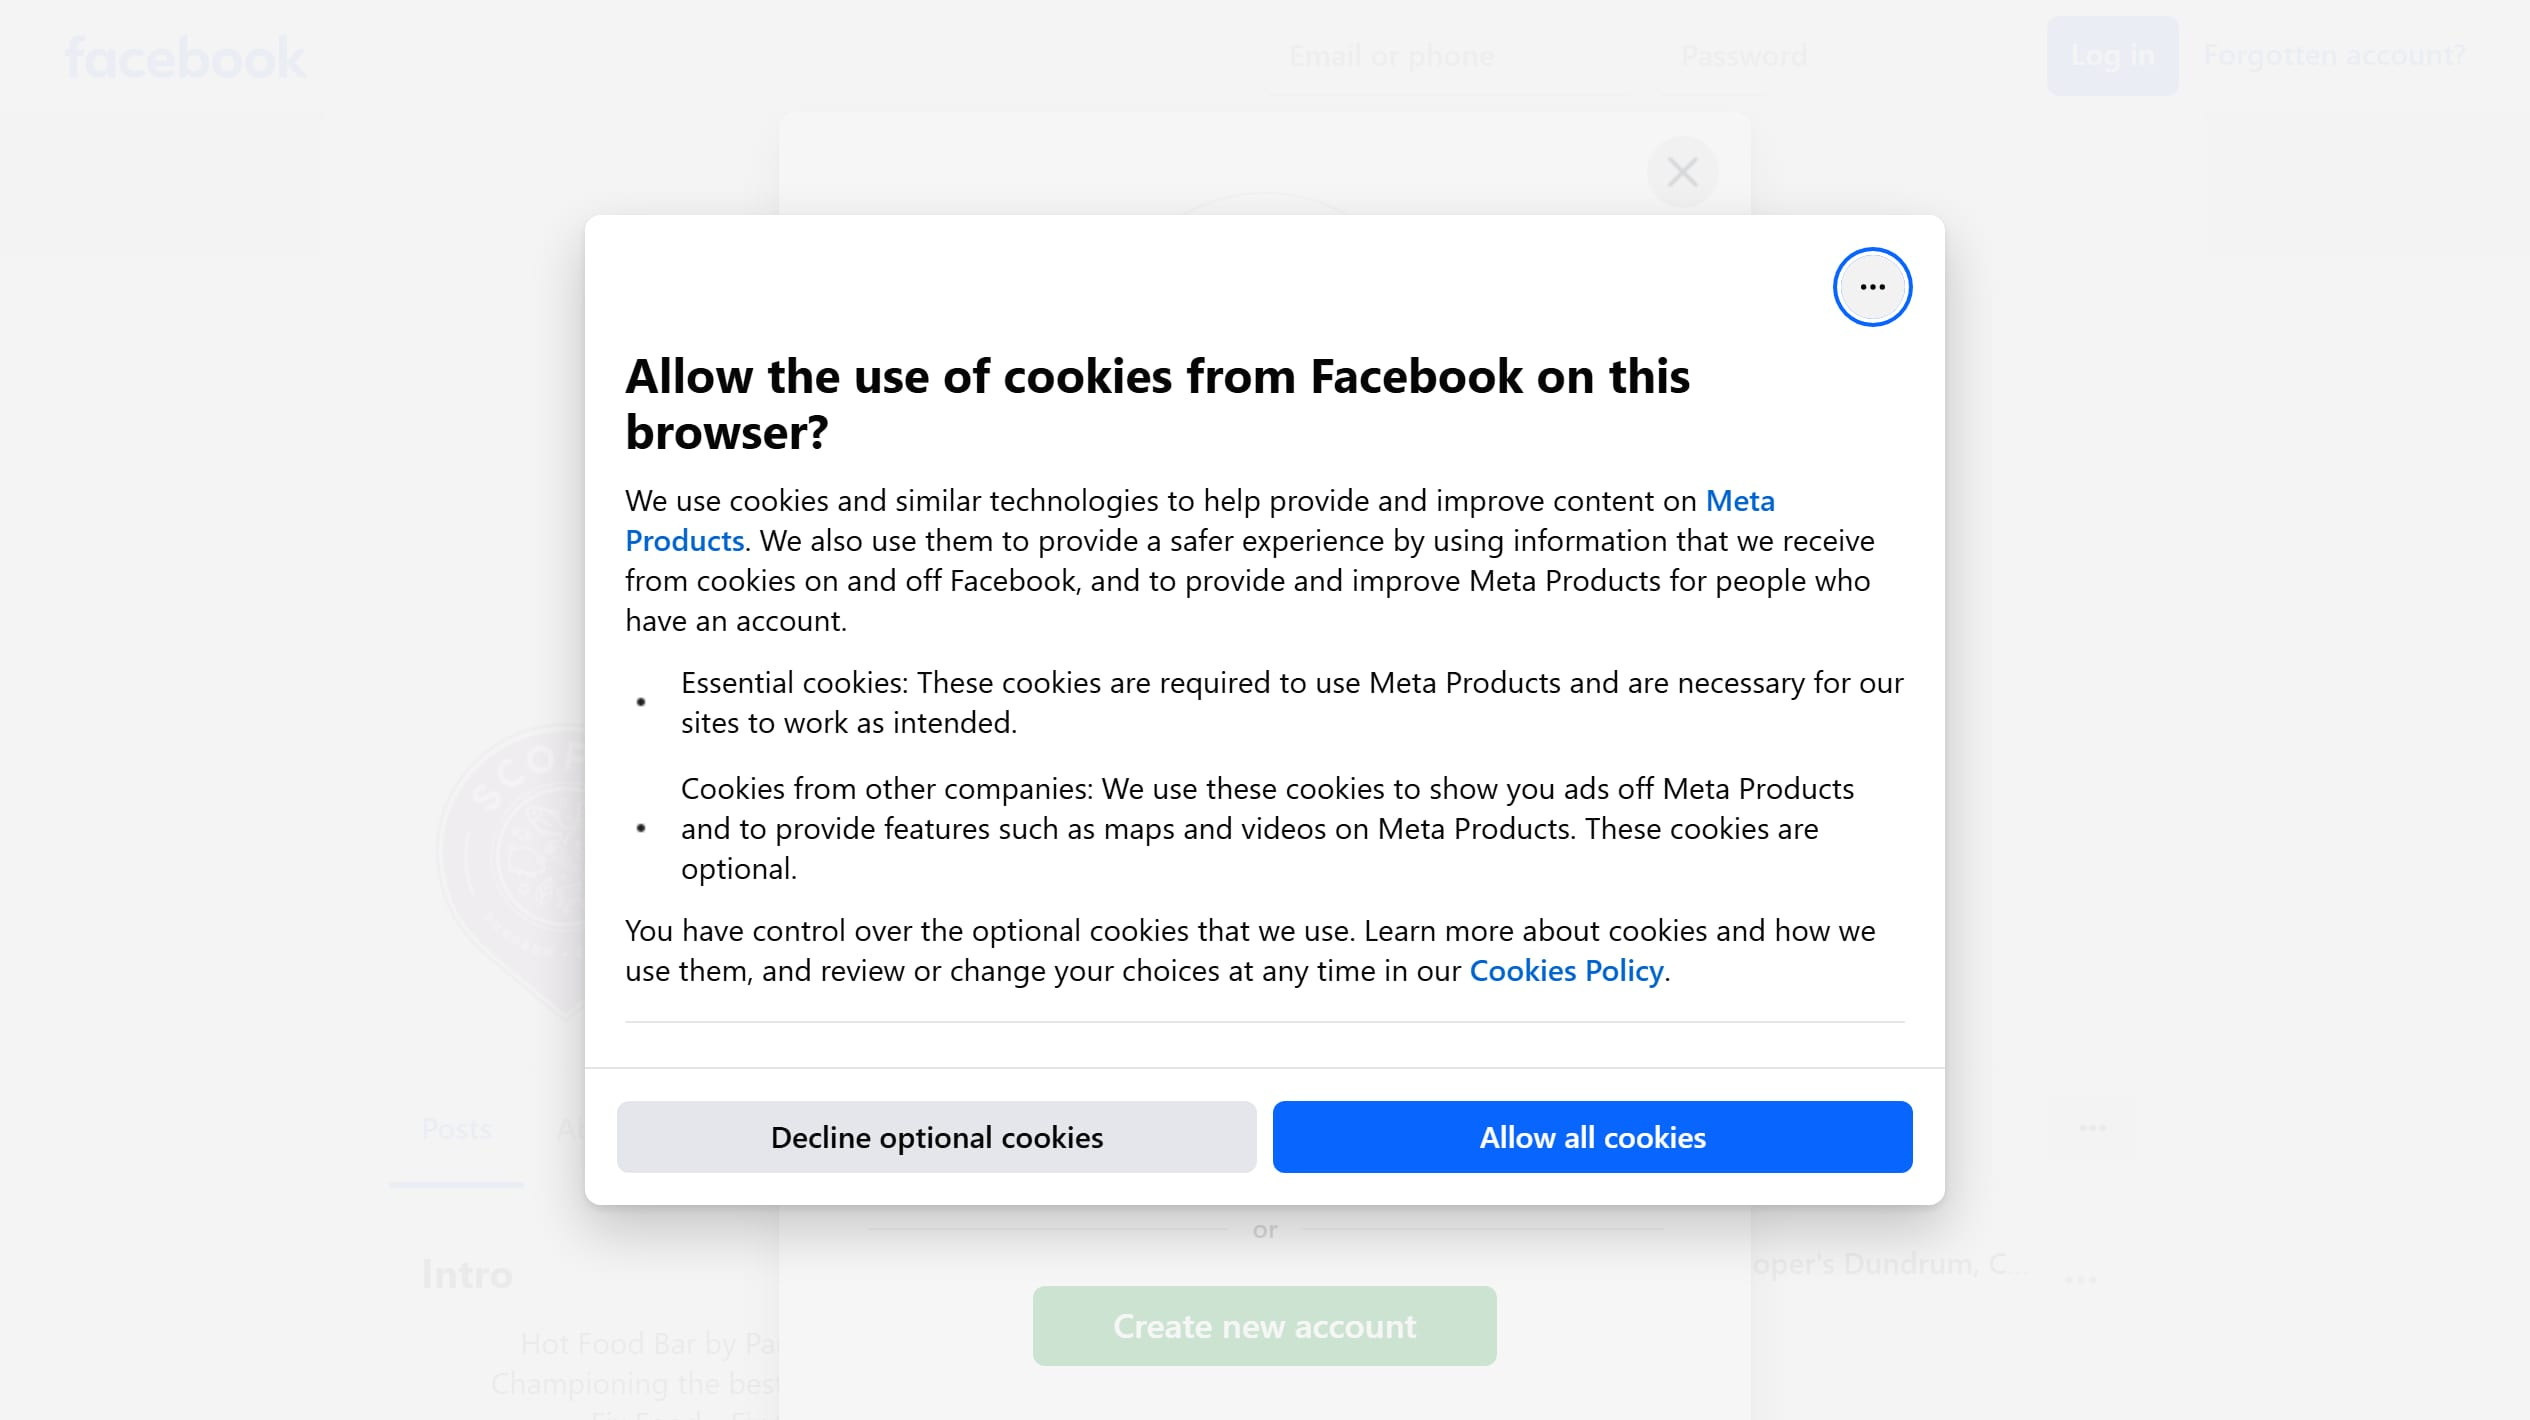
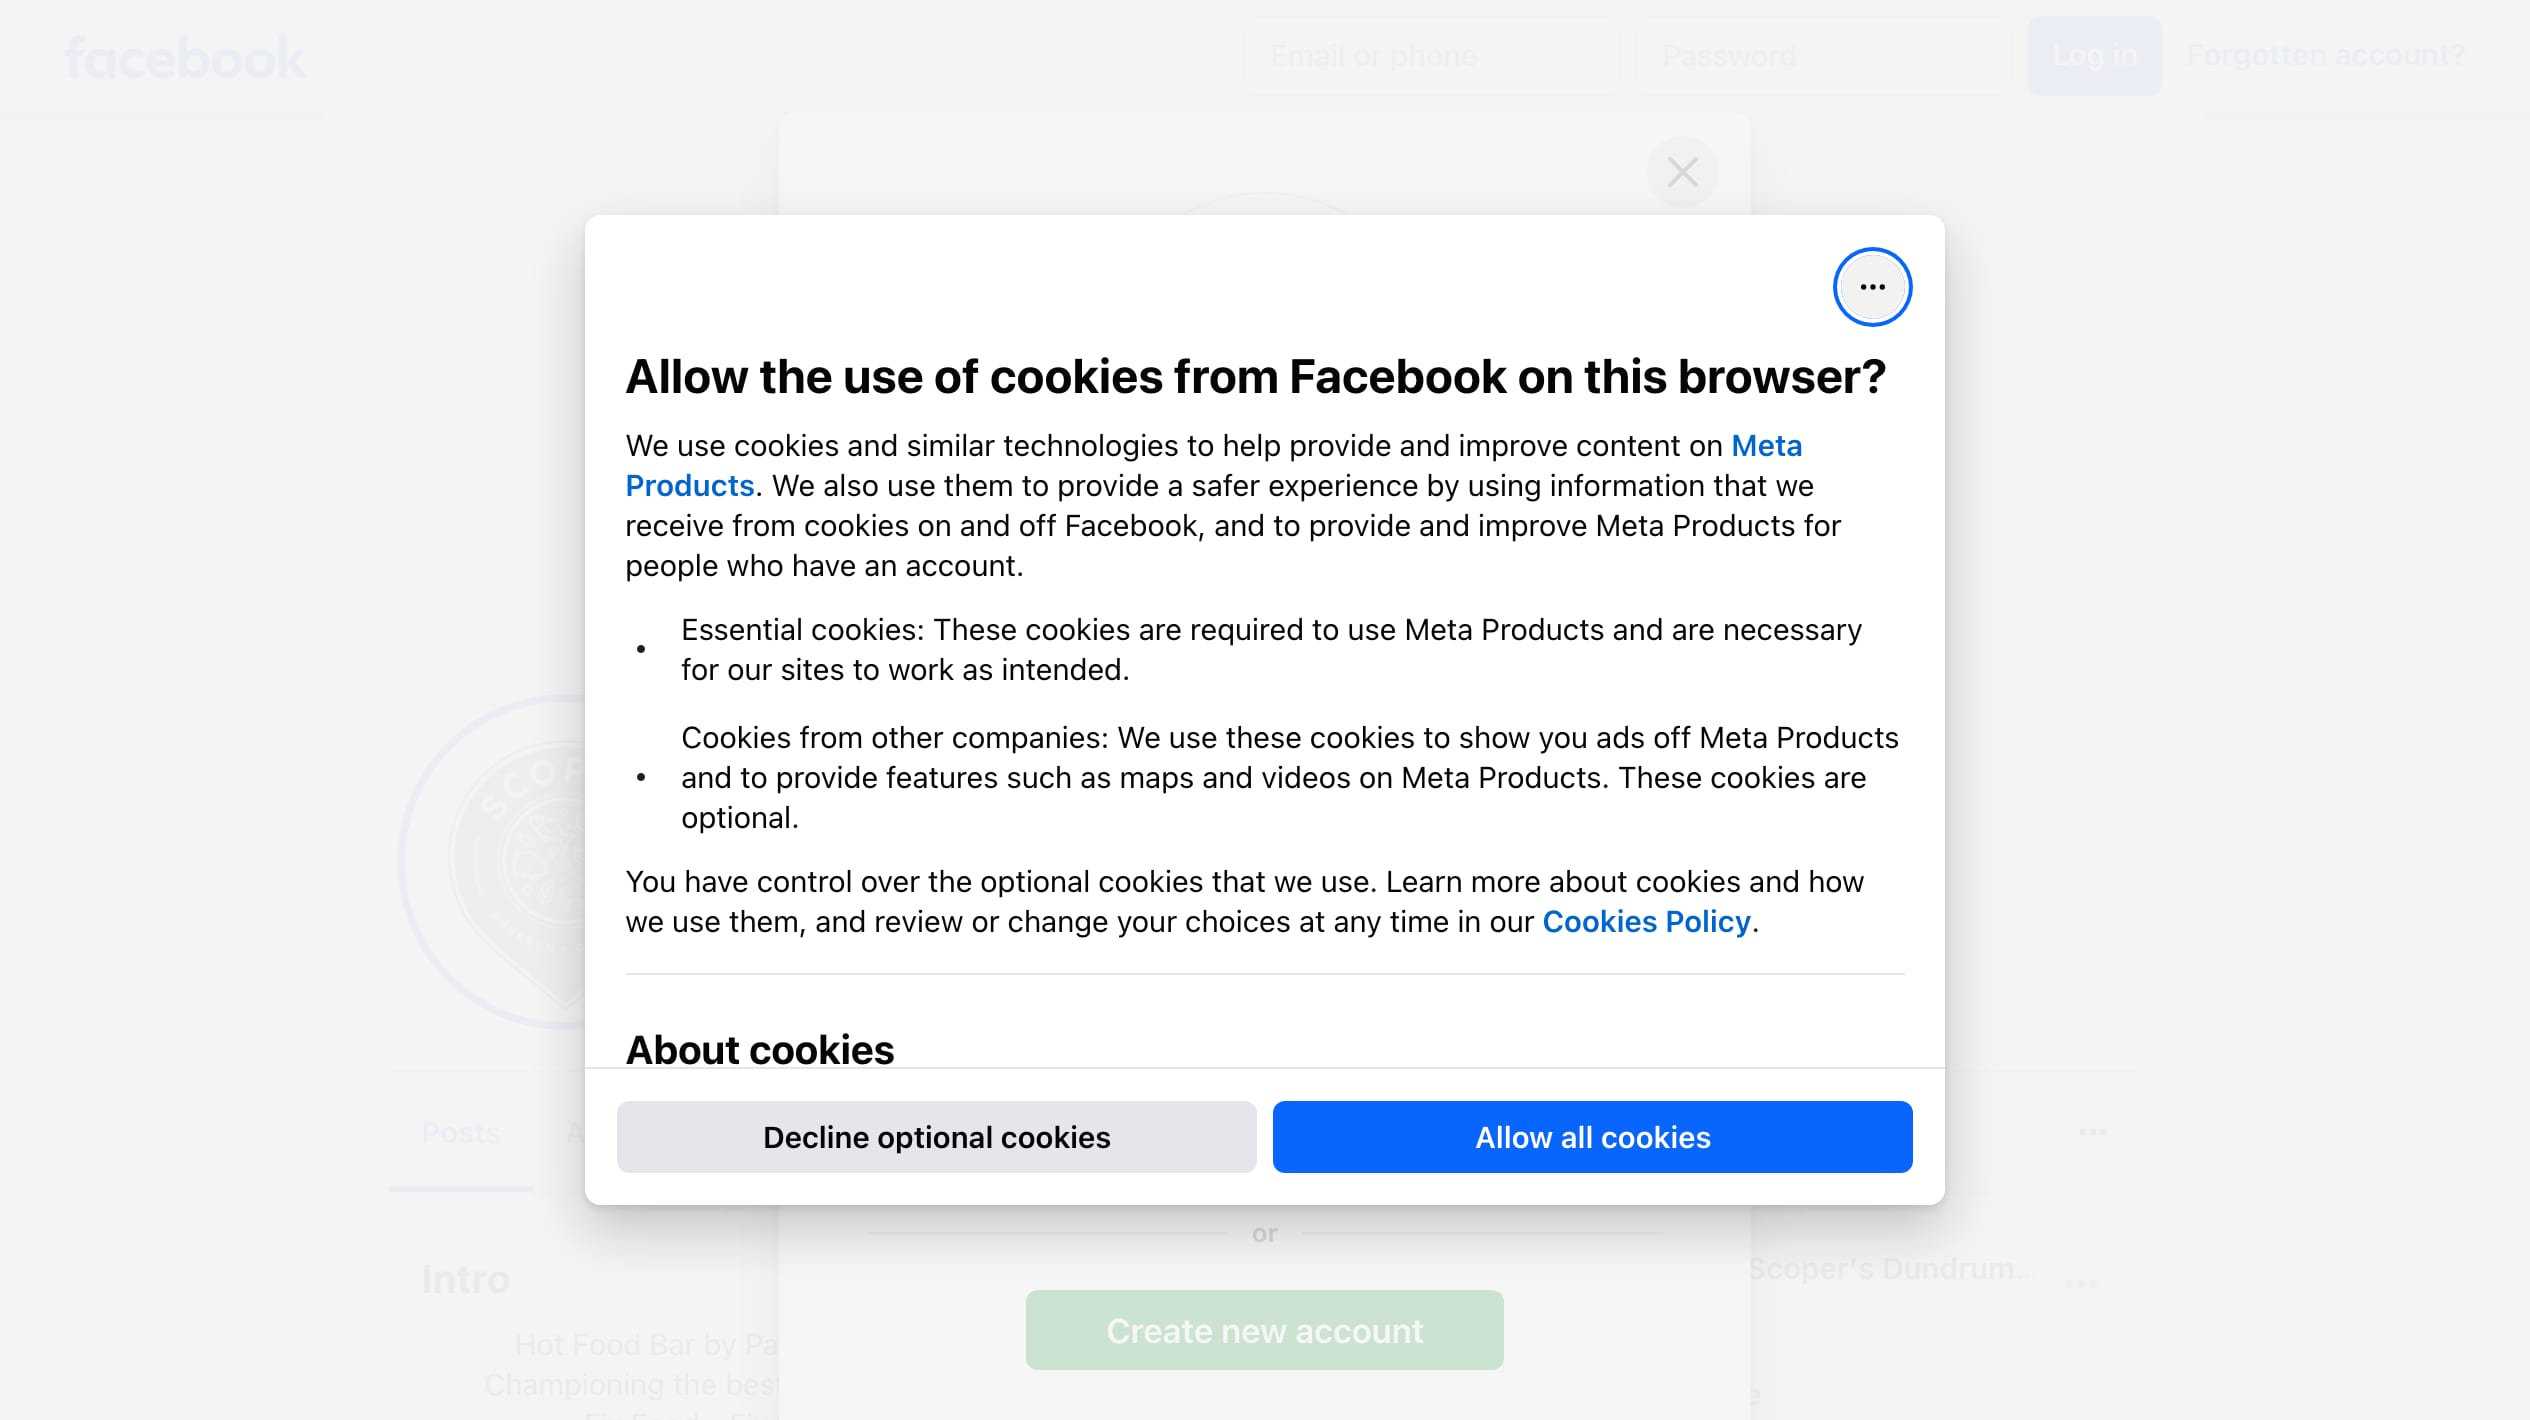
Refine Scopers SVG larder map geometry, labels, and text knockouts

diff --git a/src/concepts/scopers/styles.css b/src/concepts/scopers/styles.css
@@ -784,6 +784,11 @@
   font-size: 12.5px;
   letter-spacing: 0.32em;
   text-transform: uppercase;
+  paint-order: stroke fill;
+  stroke: var(--buttermilk);
+  stroke-width: 4px;
+  stroke-linejoin: round;
+  stroke-linecap: round;
 }
 .sc-map-feature-label {
   fill: var(--iron);
@@ -793,6 +798,11 @@
   font-weight: 600;
   letter-spacing: 0.22em;
   text-transform: uppercase;
+  paint-order: stroke fill;
+  stroke: var(--buttermilk);
+  stroke-width: 4px;
+  stroke-linejoin: round;
+  stroke-linecap: round;
 }
 .sc-map-place-label {
   fill: var(--iron);
@@ -800,6 +810,11 @@
   font-size: 12.5px;
   font-weight: 600;
   letter-spacing: 0.05em;
+  paint-order: stroke fill;
+  stroke: var(--buttermilk);
+  stroke-width: 4px;
+  stroke-linejoin: round;
+  stroke-linecap: round;
 }
 .sc-map-town-label {
   fill: var(--iron);
@@ -807,6 +822,11 @@
   font-family: var(--display);
   font-size: 10.5px;
   letter-spacing: 0.05em;
+  paint-order: stroke fill;
+  stroke: var(--buttermilk);
+  stroke-width: 4px;
+  stroke-linejoin: round;
+  stroke-linecap: round;
 }
 .sc-map-peak-label, .sc-map-castle-label {
   fill: var(--muted-on-paper);
@@ -814,6 +834,11 @@
   font-style: italic;
   font-size: 10px;
   letter-spacing: 0.06em;
+  paint-order: stroke fill;
+  stroke: var(--buttermilk);
+  stroke-width: 4px;
+  stroke-linejoin: round;
+  stroke-linecap: round;
 }
 .sc-map-note { fill: var(--muted-on-paper); font-family: var(--body); font-size: 9.5px; letter-spacing: 0.06em; }
 .sc-map-pin-label {
@@ -822,12 +847,22 @@
   font-size: 13px;
   font-weight: 700;
   letter-spacing: 0.04em;
+  paint-order: stroke fill;
+  stroke: var(--buttermilk);
+  stroke-width: 4px;
+  stroke-linejoin: round;
+  stroke-linecap: round;
 }
 .sc-map-pin-dish {
   fill: var(--muted-on-paper);
   font-family: var(--body);
   font-size: 10.5px;
   letter-spacing: 0.06em;
+  paint-order: stroke fill;
+  stroke: var(--buttermilk);
+  stroke-width: 4px;
+  stroke-linejoin: round;
+  stroke-linecap: round;
 }
 
 /* Chef timeline */

diff --git a/src/concepts/scopers/content.ts b/src/concepts/scopers/content.ts
@@ -219,10 +219,10 @@ export const larderPins: readonly LarderPin[] = [
     x: 378,
     y: 272,
     anchor: "start",
-    labelDx: 36,
-    labelDy: -24,
-    dishDy: -10,
-    leader: { x: 30, y: -18 },
+    labelDx: 44,
+    labelDy: -32,
+    dishDy: -18,
+    leader: { x: 38, y: -26 },
   },
 ];
 
